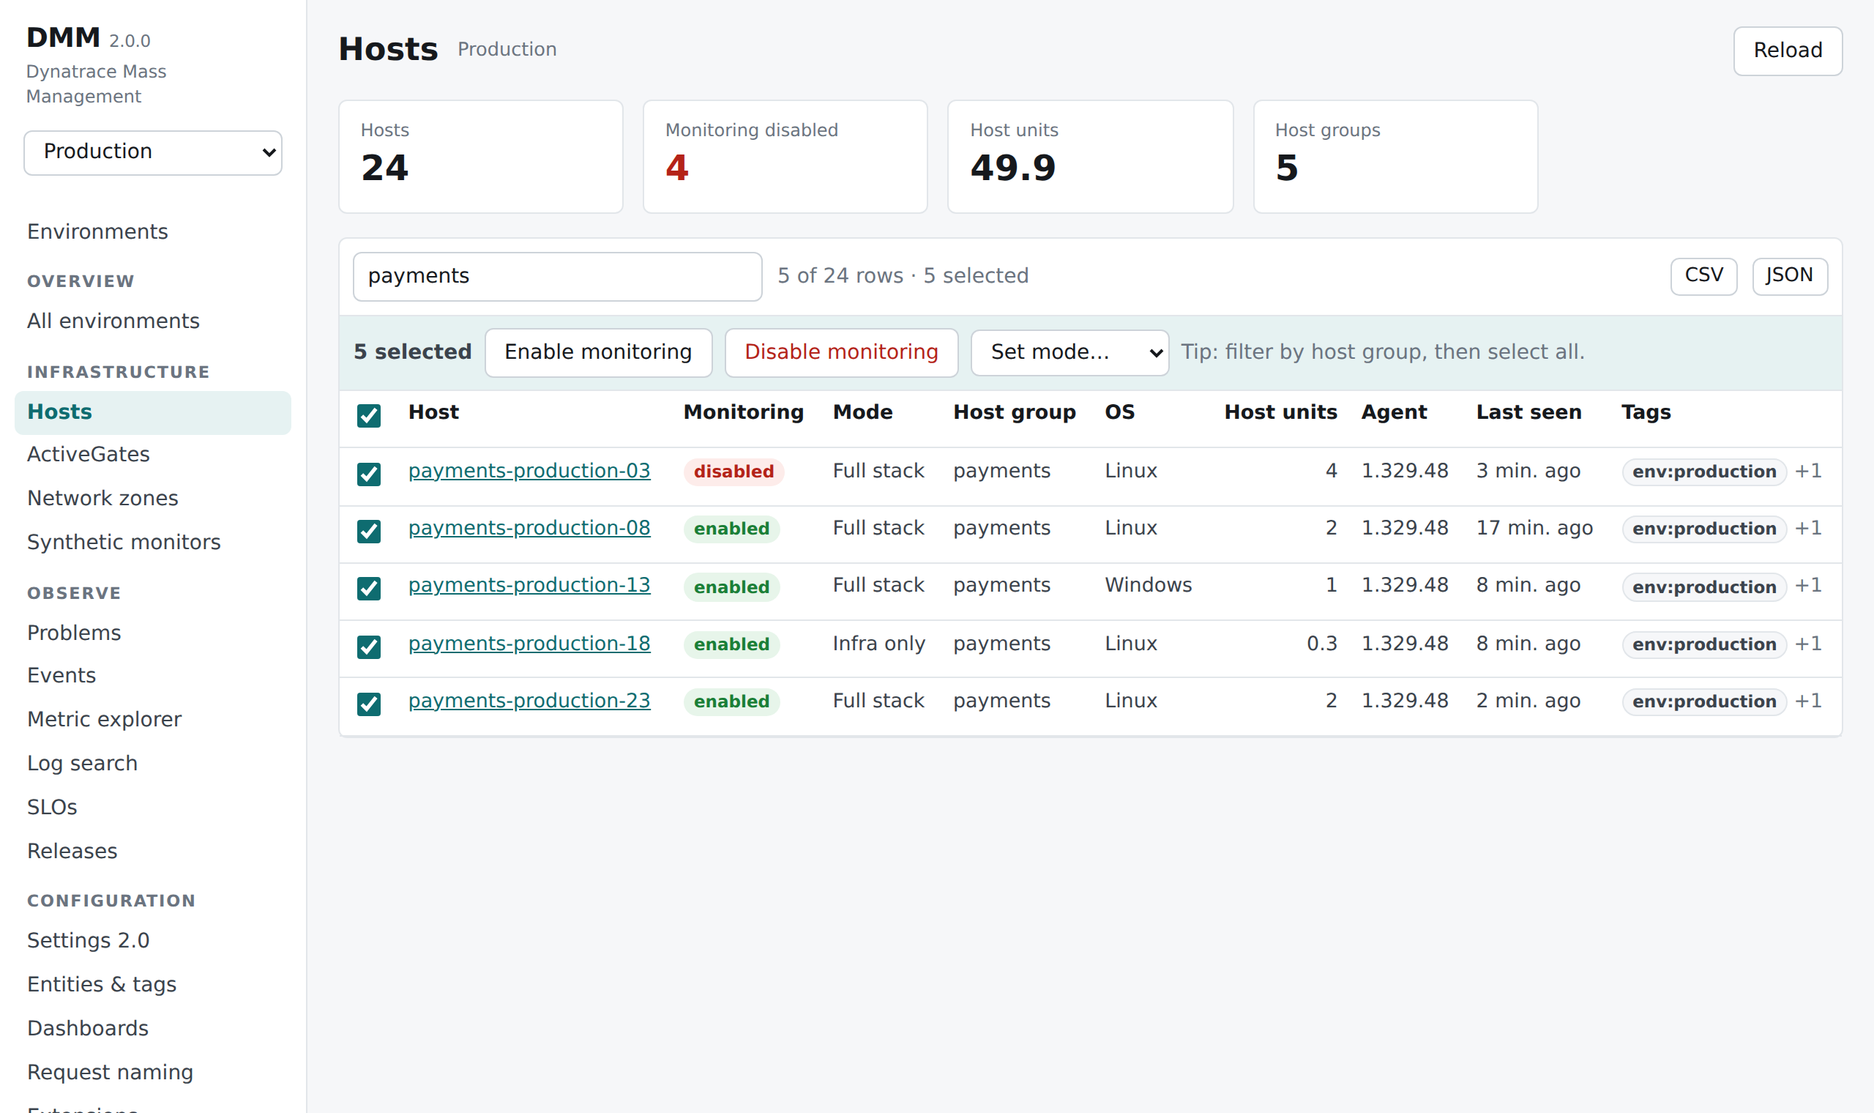
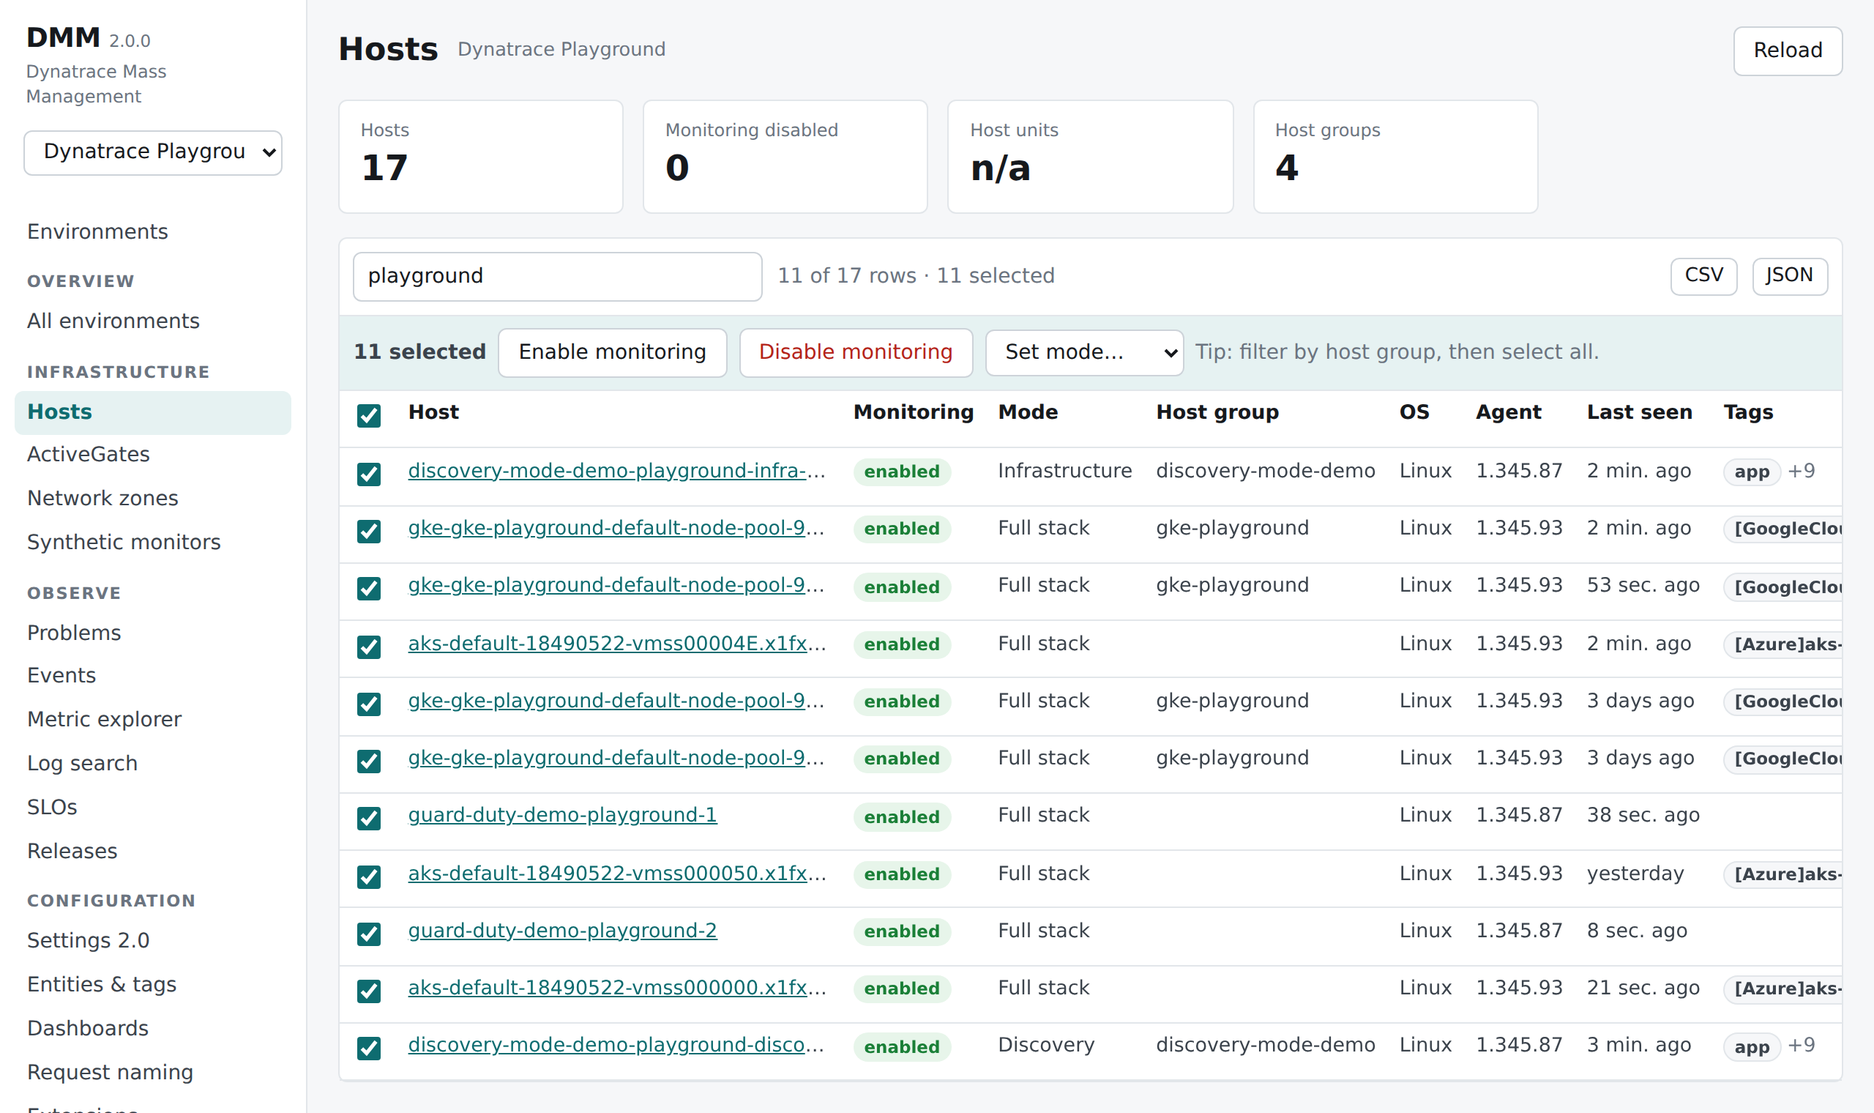
2.0.1: fixes from running every page against the Dynatrace Playground
- Problems: drop fields param (API caps pageSize at 10 with fields); SLOs: evaluate 25 per page
- Problems/events capped at 5,000 rows (events 17 s -> 4 s on a busy tenant)
- Hosts: last seen, truncated cloud host names, host units n/a when unreadable
- Overview totals wait for every environment instead of showing 0
- Metric series labelled by name (:names)
- Mock enforces both API limits; scripts/smoke-live.mjs walks a real tenant read-only
- Thumbnail and GIF recorded on the Dynatrace Playground

diff --git a/src/pages/Hosts.tsx b/src/pages/Hosts.tsx
@@ -25,14 +25,16 @@ export function Hosts() {
   const [busy, run] = useBusy();
   const state = useAsync(
     async (signal) => {
+      // Host units and agent versions come from the OneAgent inventory, which some tokens cannot
+      // read; the page still works without them and says so.
       const [hosts, monitoring, agents] = await Promise.all([
         client.hosts(signal),
         client.settings(HOST_MONITORING, undefined, signal).catch(() => [] as SettingsObject[]),
-        client.oneAgents(signal).catch(() => []),
+        client.oneAgents(signal).catch(() => null),
       ]);
       const byHost = new Map(monitoring.map((o) => [o.scope, o]));
-      const agentByHost = new Map(agents.map((a) => [a.hostInfo.entityId, a]));
-      return hosts.map((host): HostRow => {
+      const agentByHost = new Map((agents ?? []).map((a) => [a.hostInfo.entityId, a]));
+      const rows = hosts.map((host): HostRow => {
         const setting = byHost.get(host.entityId);
         const agent = agentByHost.get(host.entityId);
         const v = agent?.agentVersion;
@@ -42,9 +44,11 @@ export function Hosts() {
           enabled: setting ? setting.value.enabled !== false : true,
           mode: String(host.properties?.monitoringMode ?? agent?.hostInfo.monitoringMode ?? ""),
           hostUnits: agent ? Number(agent.hostInfo.consumedHostUnits) || undefined : undefined,
-          agentVersion: v ? `${v.major}.${v.minor}.${v.revision}` : String(host.properties?.installerVersion ?? ""),
+          // installerVersion is "1.345.93.20261014-101500"; the build stamp is noise in a table.
+          agentVersion: v ? `${v.major}.${v.minor}.${v.revision}` : String(host.properties?.installerVersion ?? "").split(".").slice(0, 3).join("."),
         };
       });
+      return { rows, hostUnitsKnown: agents !== null };
     },
     [client],
   );
@@ -91,7 +95,7 @@ export function Hosts() {
     });
 
   const columns: Column<HostRow>[] = [
-    { key: "name", label: "Host", value: (r) => r.host.displayName, render: (r) => <a href={client.uiUrl(`/#newhosts/hostdetails;id=${r.host.entityId}`)} target="_blank" rel="noreferrer">{r.host.displayName}</a> },
+    { key: "name", label: "Host", truncate: true, value: (r) => r.host.displayName, render: (r) => <a href={client.uiUrl(`/#newhosts/hostdetails;id=${r.host.entityId}`)} target="_blank" rel="noreferrer">{r.host.displayName}</a> },
     { key: "monitoring", label: "Monitoring", value: (r) => (r.enabled ? "enabled" : "disabled"), render: (r) => <Badge kind={r.enabled ? "ok" : "bad"}>{r.enabled ? "enabled" : "disabled"}</Badge> },
     { key: "mode", label: "Mode", value: (r) => r.mode, render: (r) => humanize(r.mode) },
     { key: "group", label: "Host group", value: (r) => String(r.host.properties?.hostGroupName ?? "") },
@@ -99,25 +103,25 @@ export function Hosts() {
     { key: "units", label: "Host units", align: "right", value: (r) => r.hostUnits },
     { key: "agent", label: "Agent", value: (r) => r.agentVersion },
     { key: "seen", label: "Last seen", value: (r) => r.host.lastSeenTms, render: (r) => <Ago ms={r.host.lastSeenTms} /> },
-    { key: "tags", label: "Tags", value: (r) => (r.host.tags ?? []).map((t) => t.stringRepresentation).join(" "), render: (r) => <div class="tags">{(r.host.tags ?? []).slice(0, 1).map((t) => <span class="badge" key={t.stringRepresentation}>{t.stringRepresentation}</span>)}{(r.host.tags?.length ?? 0) > 1 && <span class="muted">+{r.host.tags!.length - 1}</span>}</div> },
+    { key: "tags", label: "Tags", truncate: true, value: (r) => (r.host.tags ?? []).map((t) => t.stringRepresentation).join(" "), render: (r) => <div class="tags">{(r.host.tags ?? []).slice(0, 1).map((t) => <span class="badge" key={t.stringRepresentation}>{t.stringRepresentation}</span>)}{(r.host.tags?.length ?? 0) > 1 && <span class="muted">+{r.host.tags!.length - 1}</span>}</div> },
   ];
 
   return (
     <>
       <PageHead title="Hosts" reload={state.reload} loading={state.loading} />
       <Async state={state} what="Loading hosts">
-        {(rows) => (
+        {({ rows, hostUnitsKnown }) => (
           <>
             <div class="grid" style={{ marginBottom: "1rem" }}>
               <div class="tile"><div class="label">Hosts</div><div class="value">{rows.length}</div></div>
               <div class="tile"><div class="label">Monitoring disabled</div><div class={`value${rows.some((r) => !r.enabled) ? " bad" : ""}`}>{rows.filter((r) => !r.enabled).length}</div></div>
-              <div class="tile"><div class="label">Host units</div><div class="value">{round(rows.reduce((s, r) => s + (r.hostUnits ?? 0), 0))}</div></div>
+              <div class="tile" title={hostUnitsKnown ? undefined : "The token cannot read the OneAgent inventory (oneAgents.read)."}><div class="label">Host units</div><div class="value">{hostUnitsKnown ? round(rows.reduce((s, r) => s + (r.hostUnits ?? 0), 0)) : "n/a"}</div></div>
               <div class="tile"><div class="label">Host groups</div><div class="value">{new Set(rows.map((r) => r.host.properties?.hostGroupName).filter(Boolean)).size}</div></div>
             </div>
             <Table
               name="hosts"
               rows={rows}
-              columns={columns}
+              columns={hostUnitsKnown ? columns : columns.filter((c) => c.key !== "units")}
               rowKey={(r) => r.host.entityId}
               selectable
               empty="No hosts reported in the last 3 days."

diff --git a/src/api/dynatrace.ts b/src/api/dynatrace.ts
@@ -7,6 +7,9 @@ import type * as T from "./types";
  * Every endpoint here works with a classic API token (dt0c01.…) from a browser. Config API v1
  * calls of DMM 1.x were replaced by their Settings 2.0 schemas; see SCHEMAS in ./schemas.ts.
  */
+/** Lists that can grow without bound (problems, events) stop here; the page says so. */
+export const LIST_LIMIT = 5000;
+
 export class Dynatrace {
   readonly http: Http;
 
@@ -141,8 +144,9 @@ export class Dynatrace {
     const page = await this.http.paginate<T.Problem>(
       "/api/v2/problems",
       "problems",
-      { from: query.from ?? "now-24h", problemSelector: query.problemSelector, pageSize: 500, fields: "+evidenceDetails" },
+      { from: query.from ?? "now-24h", problemSelector: query.problemSelector, pageSize: 500 },
       signal,
+      LIST_LIMIT,
     );
     return page.items;
   }
@@ -157,6 +161,7 @@ export class Dynatrace {
       "events",
       { from: query.from ?? "now-24h", eventSelector: query.eventSelector, pageSize: 1000 },
       signal,
+      LIST_LIMIT,
     );
     return page.items;
   }
@@ -184,7 +189,8 @@ export class Dynatrace {
   // ------------------------------------------------------------------ SLOs
 
   async slos(from = "now-1w", signal?: AbortSignal): Promise<T.Slo[]> {
-    const page = await this.http.paginate<T.Slo>("/api/v2/slo", "slo", { from, pageSize: 500, evaluate: true }, signal);
+    // Dynatrace evaluates at most 25 SLOs per request.
+    const page = await this.http.paginate<T.Slo>("/api/v2/slo", "slo", { from, pageSize: 25, evaluate: true }, signal);
     return page.items;
   }
 
@@ -275,7 +281,7 @@ export class Dynatrace {
   hosts(signal?: AbortSignal): Promise<T.Entity[]> {
     return this.entities(
       'type("HOST")',
-      "+tags,+managementZones,+properties.monitoringMode,+properties.state,+properties.osType,+properties.installerVersion,+properties.hostGroupName,+properties.ipAddress,+properties.cpuCores,+properties.physicalMemory,+properties.logicalCpuCores",
+      "+tags,+managementZones,+lastSeenTms,+firstSeenTms,+properties.monitoringMode,+properties.state,+properties.osType,+properties.installerVersion,+properties.hostGroupName,+properties.ipAddress,+properties.cpuCores,+properties.physicalMemory,+properties.logicalCpuCores",
       "now-72h",
       signal,
     );

diff --git a/src/pages/Metrics.tsx b/src/pages/Metrics.tsx
@@ -13,7 +13,7 @@ const PALETTE = ["#0e6c70", "#c2410c", "#6d28d9", "#15803d", "#b91c1c", "#0369a1
 export function Metrics() {
   const { client } = useCurrent()!;
   const { params } = useRoute();
-  const [selector, setSelector] = useState(params.get("q") ?? "builtin:host.cpu.usage:splitBy(\"dt.entity.host\"):sort(value(avg,descending)):limit(8)");
+  const [selector, setSelector] = useState(params.get("q") ?? "builtin:host.cpu.usage:splitBy(\"dt.entity.host\"):sort(value(avg,descending)):limit(8):names");
   const [from, setFrom] = useState("now-24h");
   const [query, setQuery] = useState<{ selector: string; from: string } | null>(null);
 
@@ -56,6 +56,13 @@ export function Metrics() {
   );
 }
 
+/** With :names Dynatrace adds "<dim>.name"; show names instead of HOST-… IDs where it did. */
+function seriesLabel(s: { metric: string; dimensions: string[]; dimensionMap?: Record<string, string> }): string {
+  const map = s.dimensionMap ?? {};
+  const named = Object.keys(map).filter((k) => !map[`${k}.name`]).map((k) => map[k]);
+  return named.join(" · ") || s.dimensions.join(" · ") || s.metric;
+}
+
 function MetricChart({ data }: { data: MetricQueryResult }) {
   const canvas = useRef<HTMLCanvasElement>(null);
   const series = data.result.flatMap((r) => r.data.map((d) => ({ metric: r.metricId, ...d })));
@@ -69,7 +76,7 @@ function MetricChart({ data }: { data: MetricQueryResult }) {
       type: "line",
       data: {
         datasets: series.slice(0, 20).map((s, i) => ({
-          label: s.dimensions.join(" · ") || s.metric,
+          label: seriesLabel(s),
           data: s.timestamps.map((t, j) => ({ x: t, y: s.values[j] ?? null })),
           borderColor: PALETTE[i % PALETTE.length],
           backgroundColor: PALETTE[i % PALETTE.length],

diff --git a/src/pages/Overview.tsx b/src/pages/Overview.tsx
@@ -82,7 +82,10 @@ export function Overview() {
     },
   });
 
-  const totals = FIGURES.map((f) => rows.reduce((sum, row) => sum + (row[f.key] && "value" in row[f.key]! ? (row[f.key] as { value: number }).value : 0), 0));
+  // A total is shown only once every environment has answered for it; "0" while loading would lie.
+  const totals = FIGURES.map((f) =>
+    rows.some((row) => !row[f.key]) ? undefined : rows.reduce((sum, row) => sum + ("value" in row[f.key]! ? (row[f.key] as { value: number }).value : 0), 0),
+  );
 
   return (
     <>
@@ -91,10 +94,10 @@ export function Overview() {
       <div class="grid" style={{ marginBottom: "1rem" }}>
         <Tile label="Environments" value={environments.length} />
         <Tile label="Hosts" value={totals[0]} />
-        <Tile label="Open problems" value={totals[1]} bad={totals[1]! > 0} />
-        <Tile label="Critical/high vulnerabilities" value={totals[2]} bad={totals[2]! > 0} />
-        <Tile label="ActiveGates offline" value={totals[3]} bad={totals[3]! > 0} />
-        <Tile label="SLOs failing" value={totals[4]} bad={totals[4]! > 0} />
+        <Tile label="Open problems" value={totals[1]} bad={(totals[1] ?? 0) > 0} />
+        <Tile label="Critical/high vulnerabilities" value={totals[2]} bad={(totals[2] ?? 0) > 0} />
+        <Tile label="ActiveGates offline" value={totals[3]} bad={(totals[3] ?? 0) > 0} />
+        <Tile label="SLOs failing" value={totals[4]} bad={(totals[4] ?? 0) > 0} />
       </div>
       <Table
         name="environments"

diff --git a/src/pages/Reliability.tsx b/src/pages/Reliability.tsx
@@ -95,7 +95,7 @@ export function Vulnerabilities() {
   const columns: Column<SecurityProblem>[] = [
     { key: "id", label: "ID", value: (p) => p.displayId },
     { key: "title", label: "Title", value: (p) => p.title, wrap: true },
-    { key: "risk", label: "Risk", value: (p) => p.riskAssessment?.riskScore, render: (p) => <Badge kind={p.riskAssessment?.riskLevel === "CRITICAL" || p.riskAssessment?.riskLevel === "HIGH" ? "bad" : "warn"}>{humanize(p.riskAssessment?.riskLevel) || "?"} {p.riskAssessment?.riskScore ?? ""}</Badge> },
+    { key: "risk", label: "Risk", value: (p) => p.riskAssessment?.riskScore, render: (p) => (!p.riskAssessment || p.riskAssessment.riskScore < 0 ? "—" : <Badge kind={p.riskAssessment?.riskLevel === "CRITICAL" || p.riskAssessment?.riskLevel === "HIGH" ? "bad" : "warn"}>{humanize(p.riskAssessment?.riskLevel) || "?"} {p.riskAssessment?.riskScore ?? ""}</Badge>) },
     { key: "tech", label: "Technology", value: (p) => p.technology ?? "", render: (p) => ({ JAVA: "Java", NODE_JS: "Node.js", DOTNET: ".NET", PYTHON: "Python", GO: "Go", PHP: "PHP", KUBERNETES: "Kubernetes" })[p.technology ?? ""] ?? humanize(p.technology) },
     { key: "cve", label: "CVE", value: (p) => (p.cveIds ?? []).join(" ") },
     { key: "muted", label: "Muted", value: (p) => (p.muted ? "yes" : "") },

diff --git a/src/pages/Entities.tsx b/src/pages/Entities.tsx
@@ -14,10 +14,10 @@ export function Entities() {
   const [viewing, setViewing] = useState<Entity | null>(null);
   const [tagging, setTagging] = useState<{ entities: Entity[]; mode: "add" | "remove" } | null>(null);
   const types = useAsync((signal) => client.entityTypes(signal), [client]);
-  const state = useAsync((signal) => client.entities(applied, "+tags,+managementZones", "now-72h", signal), [client, applied]);
+  const state = useAsync((signal) => client.entities(applied, "+tags,+managementZones,+lastSeenTms", "now-72h", signal), [client, applied]);
 
   const columns: Column<Entity>[] = [
-    { key: "name", label: "Name", value: (e) => e.displayName },
+    { key: "name", label: "Name", truncate: true, value: (e) => e.displayName },
     { key: "id", label: "Entity ID", value: (e) => e.entityId, render: (e) => <code>{e.entityId}</code> },
     { key: "tags", label: "Tags", value: (e) => (e.tags ?? []).map((t) => t.stringRepresentation).join(" "), render: (e) => <div class="tags">{(e.tags ?? []).slice(0, 5).map((t) => <span class="badge" key={t.stringRepresentation}>{t.stringRepresentation}</span>)}</div> },
     { key: "zones", label: "Management zones", value: (e) => (e.managementZones ?? []).map((z) => z.name).join(", ") },

diff --git a/src/api/http.ts b/src/api/http.ts
@@ -101,7 +101,7 @@ export class Http {
    * Follows `nextPageKey`. Dynatrace rejects a follow-up request that repeats the original
    * filters, so every page after the first carries the key and nothing else.
    */
-  async paginate<T>(path: string, itemsKey: string, query: Query = {}, signal?: AbortSignal): Promise<Page<T>> {
+  async paginate<T>(path: string, itemsKey: string, query: Query = {}, signal?: AbortSignal, limit = Infinity): Promise<Page<T> & { truncated: boolean }> {
     const items: T[] = [];
     let page = await this.get<Record<string, unknown>>(path, query, signal);
     const totalCount = typeof page.totalCount === "number" ? page.totalCount : undefined;
@@ -110,9 +110,10 @@ export class Http {
       if (Array.isArray(chunk)) items.push(...(chunk as T[]));
       const next = page.nextPageKey;
       if (typeof next !== "string" || !next || n >= MAX_PAGES) break;
+      if (items.length >= limit) return { items: items.slice(0, limit), totalCount, truncated: true };
       page = await this.get<Record<string, unknown>>(path, { nextPageKey: next }, signal);
     }
-    return { items, totalCount };
+    return { items, totalCount, truncated: false };
   }
 }
 

diff --git a/src/pages/Problems.tsx b/src/pages/Problems.tsx
@@ -34,7 +34,7 @@ export function Problems() {
     { key: "severity", label: "Severity", value: (p) => p.severityLevel, render: (p) => <Badge kind={p.severityLevel === "AVAILABILITY" || p.severityLevel === "ERROR" ? "bad" : "warn"}>{humanize(p.severityLevel)}</Badge> },
     { key: "impact", label: "Impact", value: (p) => p.impactLevel, render: (p) => humanize(p.impactLevel) },
     { key: "status", label: "Status", value: (p) => p.status, render: (p) => <Badge kind={p.status === "OPEN" ? "bad" : "ok"}>{humanize(p.status)}</Badge> },
-    { key: "root", label: "Root cause", value: (p) => p.rootCauseEntity?.name ?? "" },
+    { key: "root", label: "Root cause", truncate: true, value: (p) => p.rootCauseEntity?.name ?? "" },
     { key: "affected", label: "Affected", align: "right", value: (p) => p.affectedEntities?.length ?? 0, render: (p) => <span title={(p.affectedEntities ?? []).map((e) => e.name).join(", ")}>{p.affectedEntities?.length ?? 0}</span> },
     { key: "start", label: "Started", value: (p) => p.startTime, render: (p) => time(p.startTime) },
   ];

diff --git a/src/ui/Table.tsx b/src/ui/Table.tsx
@@ -13,6 +13,8 @@ export interface Column<T> {
   width?: string;
   /** Long free text (titles, messages) may wrap; everything else stays on one line. */
   wrap?: boolean;
+  /** Very long values (cloud host names) are cut with an ellipsis; the full text is on hover. */
+  truncate?: boolean;
 }
 
 interface TableProps<T> {
@@ -147,7 +149,7 @@ export function Table<T>(props: TableProps<T>) {
                     </td>
                   )}
                   {columns.map((c) => (
-                    <td key={c.key} class={[c.align === "right" ? "num" : "", c.wrap ? "wrap" : ""].join(" ").trim()}>
+                    <td key={c.key} class={[c.align === "right" ? "num" : "", c.wrap ? "wrap" : "", c.truncate ? "truncate" : ""].join(" ").trim()} title={c.truncate ? String(c.value(row) ?? "") : undefined}>
                       {c.render ? c.render(row) : String(c.value(row) ?? "")}
                     </td>
                   ))}

diff --git a/src/styles.css b/src/styles.css
@@ -137,6 +137,7 @@ form.inline, .row { display: flex; gap: 0.5rem; align-items: center; flex-wrap: 
 table { width: 100%; border-collapse: collapse; font-size: 0.84rem; }
 th, td { text-align: left; padding: 0.4rem 0.5rem; border-bottom: 1px solid var(--line); vertical-align: top; white-space: nowrap; }
 td.wrap { white-space: normal; min-width: 12rem; }
+td.truncate { max-width: 19rem; overflow: hidden; text-overflow: ellipsis; }
 th { position: sticky; top: 0; background: var(--panel); font-weight: 600; z-index: 1; }
 th .sort { border: 0; background: none; padding: 0; font-weight: 600; color: var(--ink); }
 td.num, th.num { text-align: right; font-variant-numeric: tabular-nums; }

diff --git a/README.md b/README.md
@@ -4,9 +4,11 @@ Manage many Dynatrace environments from one browser tab. Nothing to install, no 
 
 **[Open DMM →](https://hclivess.github.io/dynatrace-mass-management/)** · or try it with the built-in sample data, no Dynatrace account needed.
 
-![Hosts page with five hosts selected for a bulk action](docs/thumb.png)
+![Hosts page on the Dynatrace Playground with eleven hosts selected for a bulk action](docs/thumb.png)
 
-![Overview of three environments, disabling monitoring on a host group, copying auto-tag rules to two environments, charting CPU](docs/demo.gif)
+![Overview, selecting hosts, problems, SLOs and a CPU chart, recorded on the Dynatrace Playground](docs/demo.gif)
+
+*Screens recorded read-only on the public [Dynatrace Playground](https://wkf10640.apps.dynatrace.com/).*
 
 ## What it does
 
@@ -94,12 +96,27 @@ npm test            # unit tests: URL parsing, pagination, retries, errors, vaul
 npm run build       # → dist/, static files
 npx playwright install chromium
 npm run e2e         # self-test: the built site against a mock Dynatrace (mock/), 26 scenarios
-node scripts/screenshot.mjs   # docs/thumb.png and docs/demo.gif from a real run
+node scripts/screenshot.mjs   # docs/thumb.png and docs/demo.gif from a real run (mock data)
+DT_DEMO_TOKEN=… node scripts/screenshot.mjs           # the same, on the Dynatrace Playground
+DT_URL=abc12345 DT_TOKEN=… node scripts/smoke-live.mjs # every page against a real tenant
 ```
+
+Both live scripts only read: every request that would change something is blocked before it leaves the browser.
 
 `npm run mock` starts the mock on <http://localhost:8787/e/production> (also `staging`, `development`; token `dt0c01.MOCK…`). All its data is invented.
 
 Every push runs the tests on Linux, Windows and macOS and the end-to-end self-test. A push to `main` then deploys GitHub Pages; a tag `v*` attaches the zipped site with its `.sha256` to the GitHub release. The version lives only in `package.json`.
+
+## Changes in 2.0.1
+
+Fixes found by running every page against a real tenant (the Dynatrace Playground):
+
+- **Problems** failed with "Page size can't be larger than 10 if the fields parameter is set"; **SLOs** failed with "Exceeded the limit of 25 SLOs that can be evaluated at once". Both work now, and the mock enforces both limits so the self-test catches them.
+- Problems and events stop at 5,000 rows instead of downloading a whole busy tenant (events: 17 s → 4 s).
+- Hosts show when they were last seen; long cloud host names are shortened with the full name on hover; host units say "n/a" instead of 0 when the token cannot read the OneAgent inventory.
+- The overview no longer shows 0 while figures are still loading.
+- Metric charts are labelled with host and service names instead of entity IDs.
+- New `scripts/smoke-live.mjs`: a read-only walk through every page against any tenant.
 
 ## Changes in 2.0.0
 
